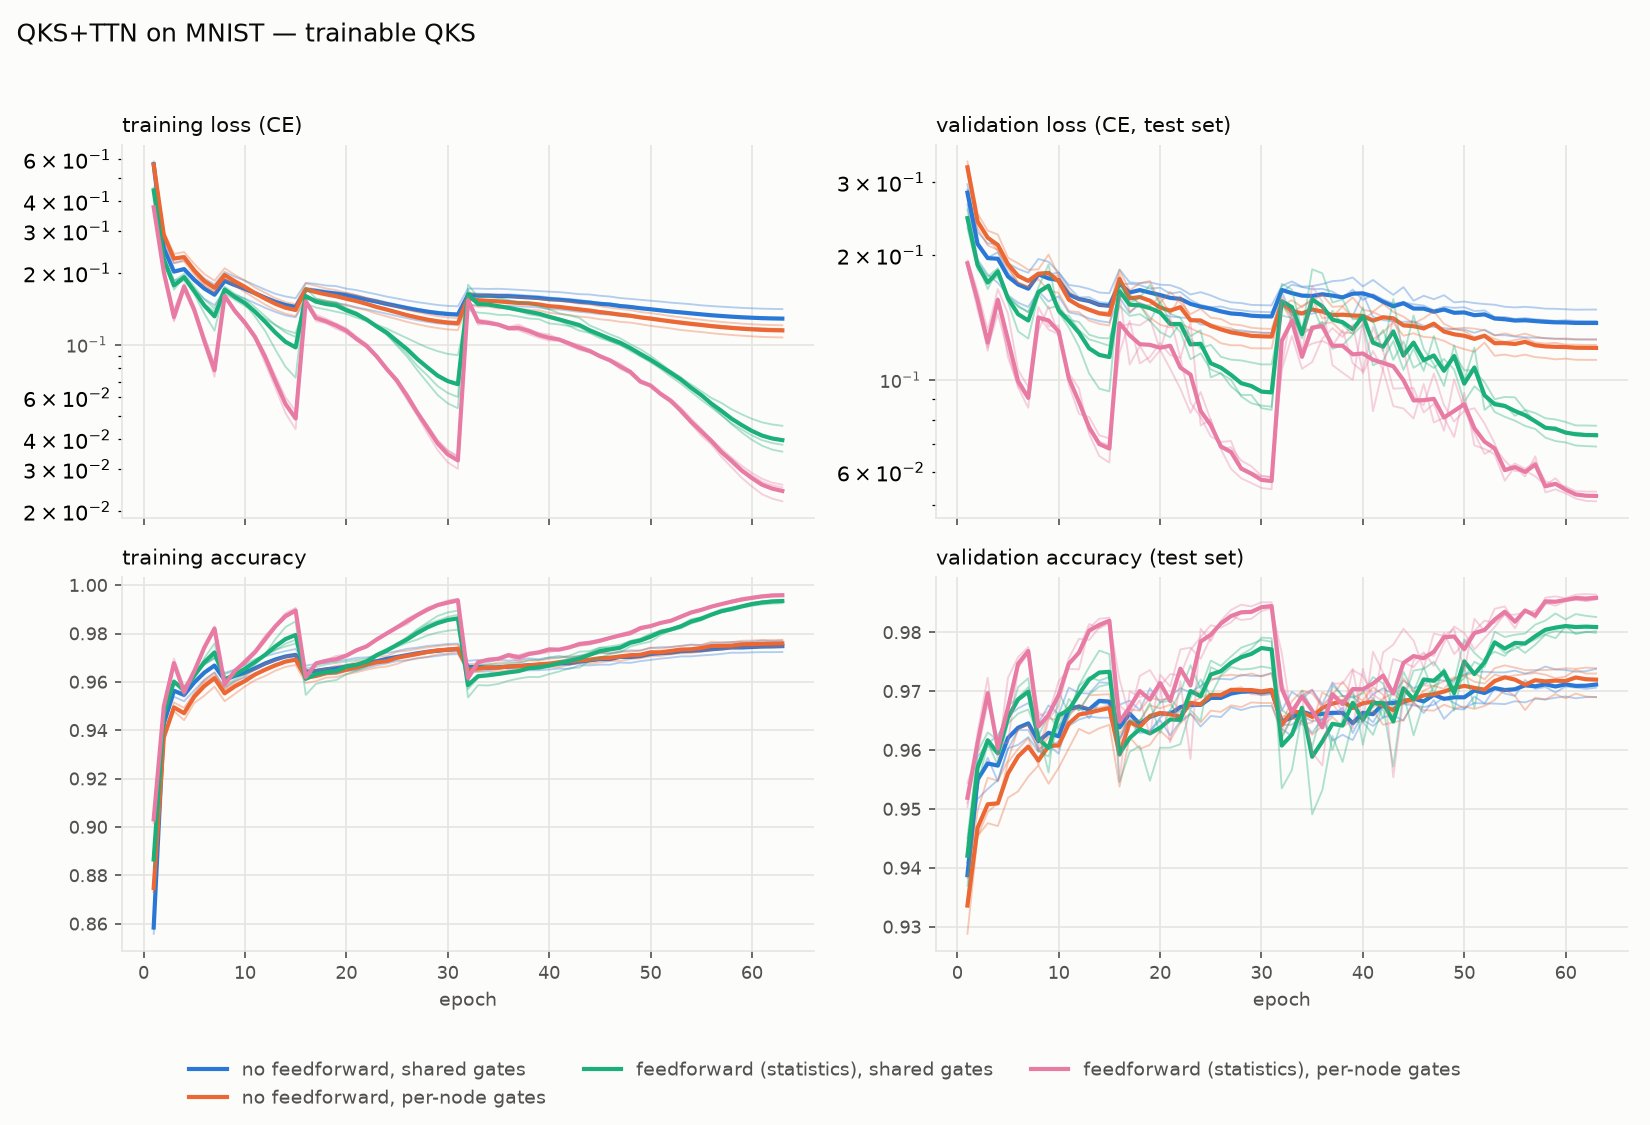
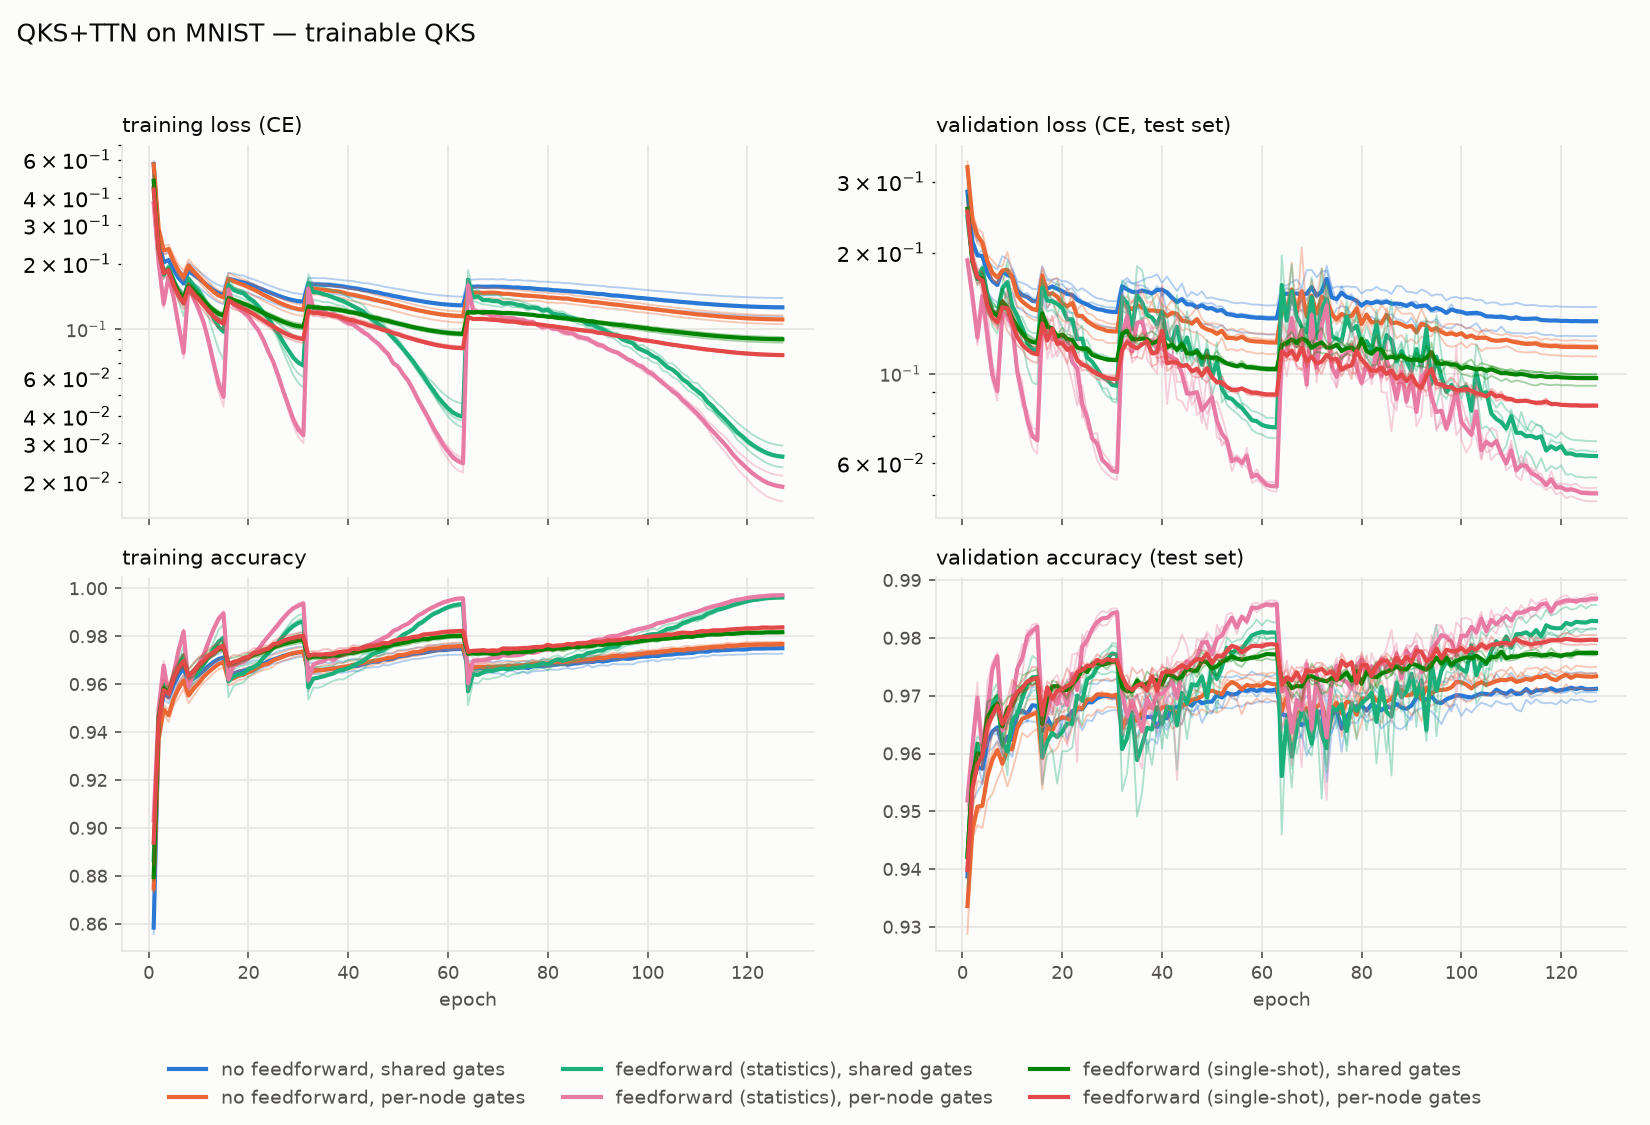
127-epoch results: single-shot feedforward added to the longer-training table and figure; feedforward gap widens with training

diff --git a/FEEDFORWARD.md b/FEEDFORWARD.md
@@ -227,22 +227,35 @@ with longer training and a deeper tree.
 
 ## Longer training and deeper trees (sweeps `ff-v2-L6`, `ff-v2-L7`; 63 epochs, 3 seeds)
 
-| depth | C0 baseline | C1 per-vertex baseline | C2 shared B | C4 per-vertex B |
-|---|---|---|---|---|
-| 6 layers (128 episodes), 15 ep (`ff-v1`) | 0.9682 ± 0.0017 | 0.9671 ± 0.0015 | 0.9736 ± 0.0018 | 0.9820 ± 0.0003 |
-| 6 layers, 63 ep | 0.9711 ± 0.0014 | 0.9720 ± 0.0015 | 0.9809 ± 0.0009 | **0.9859 ± 0.0003** |
-| 7 layers (256 episodes), 63 ep | 0.9782 ± 0.0013 | 0.9784 ± 0.0004 | 0.9841 ± 0.0005 | **0.9871 ± 0.0004** |
+MNIST test accuracy (3 seeds; columns use the plain-language names: "statistics"/"single-shot" are the
+two feedforward variants, "shared"/"per-node" the gate sharing):
+
+| depth / epochs | no ff, shared | no ff, per-node | ff stats, shared | ff stats, per-node | ff single-shot, shared | ff single-shot, per-node |
+|---|---|---|---|---|---|---|
+| 6 layers, 15 ep (`ff-v1`) | 0.9682 ± 0.0017 | 0.9671 ± 0.0015 | 0.9736 ± 0.0018 | 0.9820 ± 0.0003 | 0.9729 ± 0.0009 | 0.9731 ± 0.0009 |
+| 6 layers, 63 ep | 0.9711 ± 0.0014 | 0.9720 ± 0.0015 | 0.9809 ± 0.0009 | 0.9859 ± 0.0003 | — | — |
+| 6 layers, 127 ep | 0.9712 ± 0.0014 | 0.9734 ± 0.0011 | 0.9829 ± 0.0014 | 0.9868 ± 0.0003 | 0.9774 ± 0.0002 | 0.9797 ± 0.0005 |
+| 7 layers, 63 ep | 0.9782 ± 0.0013 | 0.9784 ± 0.0004 | 0.9841 ± 0.0005 | 0.9871 ± 0.0004 | — | — |
+| 7 layers, 127 ep | 0.9786 ± 0.0014 | 0.9789 ± 0.0004 | 0.9851 ± 0.0003 | **0.9881 ± 0.0010** | — | — |
 
 ![63-epoch training and validation curves, depth 6](img/ff-v2-L6_curves_trainable_QKS.png)
 
-*The 63-epoch curves (four annealing cycles; restarts visible at epochs 16 and 32). The feedforward
-models recover from each warm restart faster and to a lower loss, while the baselines flatten after
-epoch ~20 — longer training widens the feedforward gap rather than closing it.*
+*The 127-epoch curves (five annealing cycles; warm restarts visible at epochs 16, 32 and 64), now
+including the two single-shot variants. The feedforward models recover from each restart faster and to
+a lower loss, while the baselines flatten after epoch ~20 — longer training widens the feedforward gap
+rather than closing it.*
 
-Four times longer training adds ~0.3 pp to the baselines and ~0.4–0.9 pp to the feedforward models;
-a deeper tree lifts everything by ~1 pp; the ordering is unchanged and every paired comparison
-(C2 − C0, C4 − C1) is positive on all seeds with McNemar p ≤ 3·10⁻⁵ (depth 7). Per-vertex unitaries
-without feedforward remain worthless (C1 − C0 = +0.01 ± 0.10 pp at depth 7).
+Longer training helps the feedforward models far more than the baselines: from 15 to 127 epochs the
+baselines gain ~0.3–0.6 pp while statistics feedforward gains ~0.5–0.9 pp, so the paired gap *widens*
+(shared: +0.54 pp at 15 ep → +1.17 ± 0.26 pp at 127 ep; per-node: +1.35 ± 0.15 pp at 127 ep, all seeds
+positive, McNemar p ≤ 5·10⁻⁸). Single-shot feedforward shows the same pattern at a smaller scale
+(+0.62 ± 0.13 pp over its baseline at 127 ep; per-node beats shared here: 0.9797 vs 0.9774) but stays
+0.7 pp behind statistics feedforward on every seed — consistent with the design note's argument that
+single-shot conditioning is only a widened unitary, while statistics feedforward is genuinely nonlinear.
+A deeper tree lifts everything by ~0.5–1 pp; per-node gates without feedforward remain nearly worthless
+(+0.03 ± 0.10 pp at depth 7). The best MNIST number in the dense-encoder family is now
+**0.9881 ± 0.0010** (depth 7, statistics feedforward, per-node gates, 127 ep), edging the chi=8
+15-epoch record of 0.9883 from the other direction.
 
 Two pipeline bugs were found and fixed on 2026-08-25 while extending to new datasets — both leave the
 MNIST results above untouched (60000/32 is exact; MNIST is not class-sorted):
